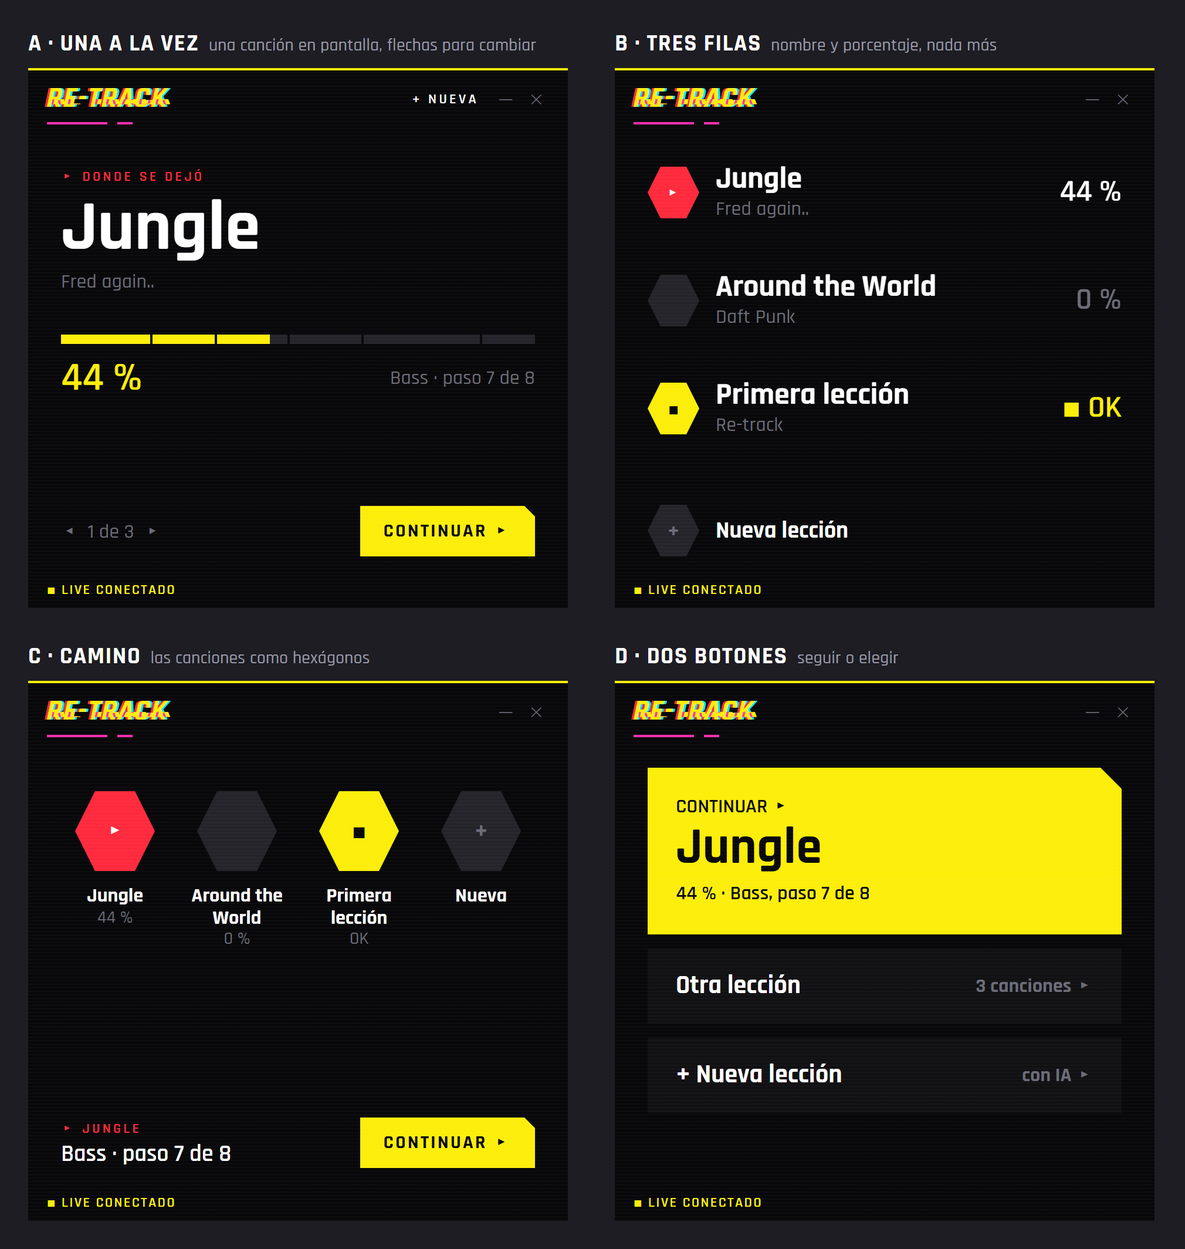
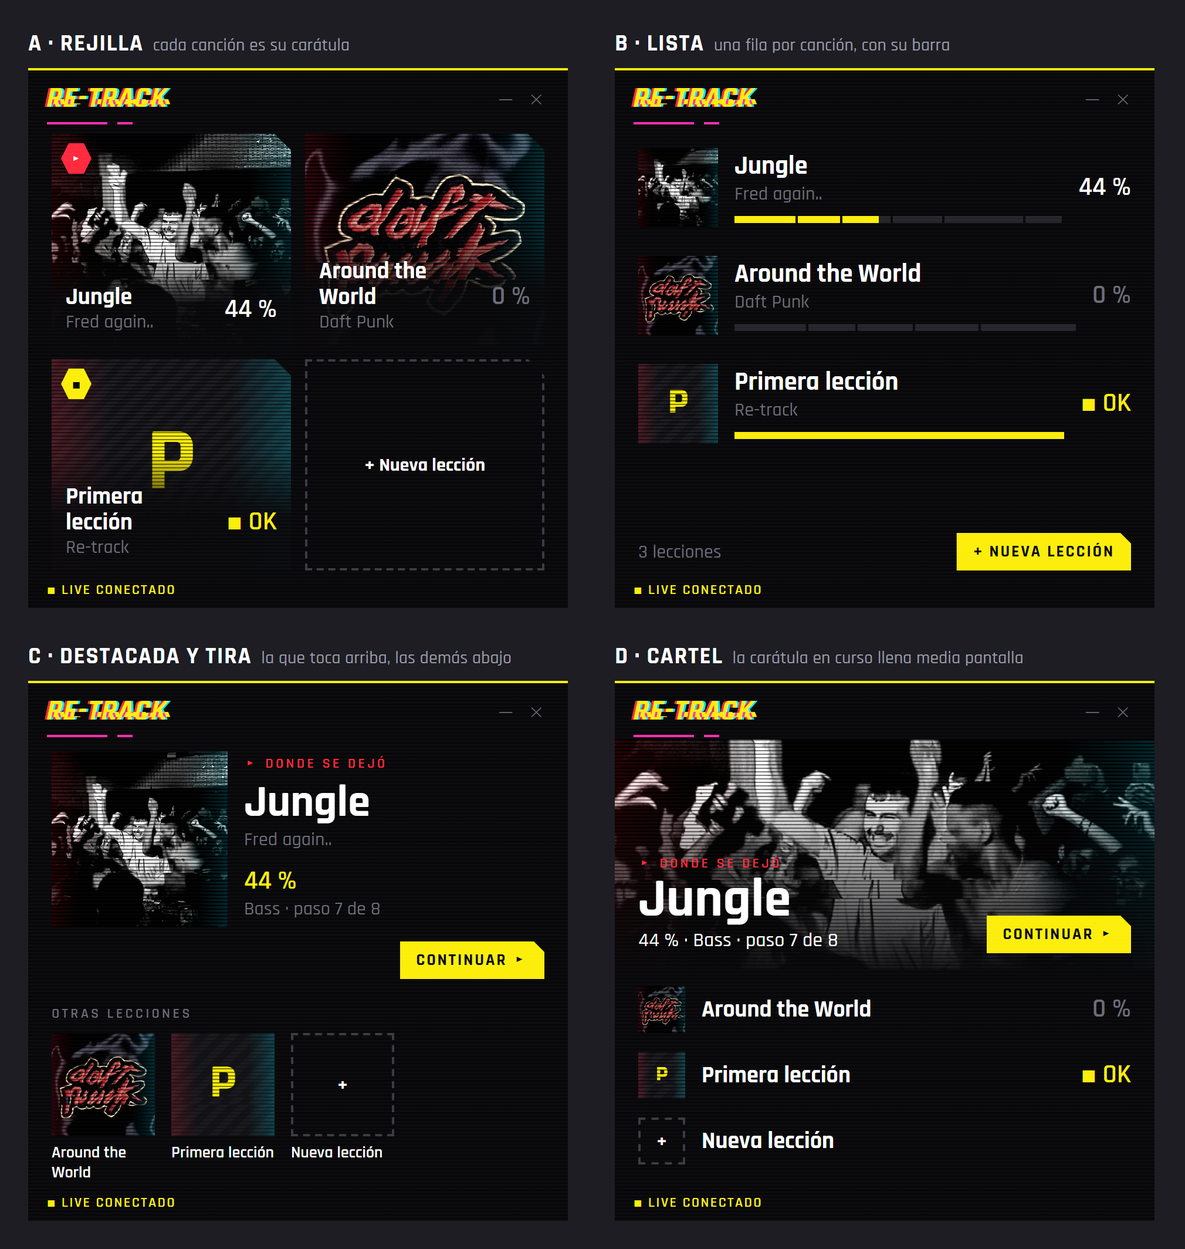
Docs: third round of home and new-lesson proposals, with VHS cover art

diff --git a/docs/design/inicio/propuestas.html b/docs/design/inicio/propuestas.html
@@ -2,83 +2,77 @@
 <html lang="es">
 <head>
 <meta charset="utf-8">
-<title>Re-track · pantalla de inicio · cuatro propuestas (segunda ronda, con aire)</title>
-<!-- Segunda ronda (2026-11-24): la primera se descartó por apretada («no podemos respirar»). Regla de esta ronda: tres cosas
-     por pantalla como mucho, letra grande, separar con espacio y no con líneas. Ventana real: 460×460.
+<title>Re-track · pantalla de inicio · cuatro propuestas (tercera ronda, con carátula)</title>
+<!-- Tercera ronda (2026-11-24). La primera: apretada. La segunda: bonita pero poco práctica. Esta: todas las canciones a la vista,
+     un toque para entrar, y la carátula de cada canción con líneas de VHS (sin carátula, la inicial). Ventana real: 460×460.
      Jungle y Primera lección salen de lecciones/*.json; su progreso y «Around the World» son de muestra. -->
 <link rel="stylesheet" href="../propuestas.css">
 <style>
-  .aire { position: absolute; inset: 58px 28px 36px; display: flex; flex-direction: column; }
+  .aire { position: absolute; inset: 54px 20px 32px; display: flex; flex-direction: column; }
   .fila { display: flex; align-items: center; gap: 14px; }
   .gr { flex: 1; min-width: 0; }
-  .suave { font-size: 17px; color: var(--tenue); }
-  .cta.gr2 { padding: 11px 20px; font-size: 16px; }
-  .bloques { height: 8px; }
-  .abajo { margin-top: auto; margin-bottom: 8px; }
+  .suave { font-size: 16px; color: var(--tenue); }
+  .abajo { margin-top: auto; }
+  .pct { font: 600 22px/1 Rajdhani; }
+  .mas { display: grid; place-items: center; border: 2px dashed #3a3a44; font: 700 16px Rajdhani; color: #fff; text-align: center; box-sizing: border-box; }
 
-  .a-nombre { font: 700 60px/1 Rajdhani; color: #fff; margin: 6px 0 4px; }
-  .a-pct { font: 600 34px/1 Rajdhani; color: var(--amarillo); }
+  .a-rej { flex: 1; display: grid; grid-template-columns: 1fr 1fr; grid-template-rows: 1fr 1fr; gap: 12px; }
+  .losa { position: relative; clip-path: polygon(0 0, calc(100% - 14px) 0, 100% 14px, 100% 100%, 0 100%); }
+  .losa > .car { position: absolute; inset: 0; width: auto; aspect-ratio: auto; }
+  .losa > div { position: absolute; left: 0; right: 0; bottom: 0; padding: 26px 12px 9px; background: linear-gradient(transparent, rgba(8,8,10,.94) 55%); }
+  .losa b { display: block; font: 700 20px/1.1 Rajdhani; color: #fff; }
+  .losa .hex { position: absolute; top: 8px; left: 8px; width: 26px; height: 26px; }
 
   .b-fila { height: 92px; }
-  .b-fila .hex, .mas { width: 44px; height: 44px; font-size: 15px; }
-  .b-fila b { display: block; font: 700 26px/1.1 Rajdhani; color: #fff; }
-  .b-fila .pct { font: 600 26px/1 Rajdhani; }
+  .b-fila b { display: block; font: 700 22px/1.1 Rajdhani; color: #fff; }
+  .b-fila .bloques { margin-top: 8px; }
 
-  .c-hexes { display: flex; justify-content: space-between; align-items: flex-start; margin-top: 34px; }
-  .c-hexes > div { width: 92px; text-align: center; line-height: 1.2; }
-  .c-hexes .hex { width: 68px; height: 68px; margin: 0 auto 12px; font-size: 20px; }
-  .c-hexes b { display: block; font: 700 17px/1.1 Rajdhani; color: #fff; }
+  .c-nombre { font: 700 38px/1 Rajdhani; color: #fff; margin: 6px 0 2px; }
+  .c-tira { display: flex; gap: 14px; margin-top: 8px; }
+  .c-tira > div { width: 88px; font: 600 14px/1.2 Rajdhani; color: #fff; }
+  .c-tira .car, .c-tira .mas { width: 88px; height: 88px; margin-bottom: 6px; }
 
-  .d-grande { margin-top: 14px; padding: 22px 24px 24px; background: var(--amarillo); color: #08080a;
-    clip-path: polygon(0 0, calc(100% - 18px) 0, 100% 18px, 100% 100%, 0 100%); }
-  .d-grande b { display: block; font: 700 44px/1 Rajdhani; margin: 2px 0 6px; }
-  .d-grande span { font: 600 17px Rajdhani; }
-  .d-otra { padding: 18px 24px; background: var(--panel); margin-top: 12px; font: 700 22px Rajdhani; color: #fff; }
+  .d-cartel { position: relative; height: 196px; margin: -6px -20px 6px; }
+  .d-cartel > .car { position: absolute; inset: 0; width: auto; aspect-ratio: auto; }
+  .d-cartel > div { position: absolute; inset: 0; padding: 0 20px 14px; display: flex; align-items: flex-end; gap: 14px; background: linear-gradient(transparent 20%, rgba(8,8,10,.95)); }
+  .d-cartel b { display: block; font: 700 46px/1 Rajdhani; color: #fff; }
+  .d-fila { height: 56px; font: 700 20px Rajdhani; color: #fff; }
 </style>
 </head>
 <body>
+<script src="../propuestas.js"></script>
 <script>
-// [pasos, hechos] por módulo.
-const L = [
-  { t: "Jungle", a: "Fred again..", m: [[10, 10], [7, 7], [8, 6], [8, 0], [13, 0], [6, 0]] },
-  { t: "Around the World", a: "Daft Punk", m: [[9, 0], [6, 0], [7, 0], [8, 0], [12, 0]] },
-  { t: "Primera lección", a: "Re-track", m: [[3, 3]] },
-];
 const total = (l) => l.m.reduce((s, m) => s + m[0], 0), hechos = (l) => l.m.reduce((s, m) => s + m[1], 0);
 const pct = (l) => Math.round((hechos(l) / total(l)) * 100);
 const estado = (l) => (hechos(l) === total(l) ? "on" : hechos(l) ? "sig" : "");
 const SIMBOLO = { on: "■", sig: "▸", "": "" };
 const cifra = (l) => estado(l) === "on" ? `<span class="am">■ OK</span>` : `<span class="num ${hechos(l) ? "bl" : "te"}">${pct(l)} %</span>`;
 const bloques = (l) => `<div class="bloques">${l.m.map((m) => `<i style="flex:${m[0]}"><b style="width:${(m[1] / m[0]) * 100}%"></b></i>`).join("")}</div>`;
-const J = L[0];
-const cab = (ruta) => `<div class="cab"><span class="logo">RE-TRACK</span><span class="ruta">${ruta}</span>
-  <span class="vent">―</span><span class="vent">✕</span></div><div class="glitch"></div>`;
-const pie = `<div class="pie"><span class="am">■ Live conectado</span></div>`;
-const celda = (letra, nombre, idea, ruta, html) =>
-  `<div class="celda"><h2>${letra} · ${nombre}<small>${idea}</small></h2><div class="app">${cab(ruta)}<div class="aire">${html}</div>${pie}</div></div>`;
+const J = L[0], otras = L.slice(1);
+const DONDE = "Bass · paso 7 de 8";
 
-// A · Una a la vez: una sola canción en pantalla; las flechas pasan a la siguiente.
-const A = `<div style="margin-top:22px"><span class="et ro">▸ Donde se dejó</span><div class="a-nombre">${J.t}</div><span class="suave">${J.a}</span></div>
-  <div style="margin-top:34px">${bloques(J)}<div class="fila" style="margin-top:12px"><span class="a-pct num gr">${pct(J)} %</span><span class="suave">Bass · paso 7 de 8</span></div></div>
-  <div class="fila abajo"><span class="suave gr">◂ &nbsp;1 de ${L.length}&nbsp; ▸</span><span class="cta gr2">Continuar ▸</span></div>`;
+// A · Rejilla: cada canción es su carátula; tocarla entra. La última losa crea una lección.
+const A = `<div class="a-rej">${L.map((l) => `<div class="losa">${car(l, 0, "font-size:80px")}${estado(l) ? `<span class="hex ${estado(l)}">${SIMBOLO[estado(l)]}</span>` : ""}
+    <div class="fila"><span class="gr"><b>${l.t}</b><span class="suave">${l.a}</span></span><span class="pct">${cifra(l)}</span></div></div>`).join("")}
+  <div class="losa mas">+ Nueva lección</div></div>`;
 
-// B · Tres filas: solo el nombre y el porcentaje; tocar una fila entra en ella.
-const B = `${L.map((l) => `<div class="fila b-fila"><span class="hex ${estado(l)}">${SIMBOLO[estado(l)]}</span>
-    <span class="gr"><b>${l.t}</b><span class="suave">${l.a}</span></span><span class="pct">${cifra(l)}</span></div>`).join("")}
-  <div class="fila abajo"><span class="hex mas bl" style="font-size:18px">+</span><span style="font:700 20px Rajdhani" class="bl">Nueva lección</span></div>`;
+// B · Lista: una fila por canción, con su carátula, su barra de módulos y su porcentaje.
+const B = `${L.map((l) => `<div class="fila b-fila">${car(l, 68)}<span class="gr"><b>${l.t}</b><span class="suave">${l.a}</span>${bloques(l)}</span><span class="pct">${cifra(l)}</span></div>`).join("")}
+  <div class="fila abajo"><span class="suave gr">${L.length} lecciones</span><span class="cta">+ Nueva lección</span></div>`;
 
-// C · Camino: las canciones son hexágonos, como los módulos dentro de una lección.
-const C = `<div class="c-hexes">${L.map((l) => `<div><span class="hex ${estado(l)}">${SIMBOLO[estado(l)]}</span><b>${l.t}</b><span class="te">${estado(l) === "on" ? "OK" : pct(l) + " %"}</span></div>`).join("")}
-    <div><span class="hex bl">+</span><b>Nueva</b></div></div>
-  <div class="fila abajo"><span class="gr"><span class="et ro">▸ Jungle</span><br><span style="font:600 20px Rajdhani" class="bl">Bass · paso 7 de 8</span></span><span class="cta gr2">Continuar ▸</span></div>`;
+// C · Destacada y tira: arriba la canción donde se dejó, con su botón; abajo las demás.
+const C = `<div class="fila" style="align-items:flex-start;margin-top:4px">${car(J, 150)}<div class="gr"><span class="et ro">▸ Donde se dejó</span><div class="c-nombre">${J.t}</div>
+    <span class="suave">${J.a}</span><div class="pct am num" style="margin:14px 0 2px">${pct(J)} %</div><span class="suave">${DONDE}</span></div></div>
+  <div class="fila" style="margin-top:12px"><span class="gr"></span><span class="cta">Continuar ▸</span></div>
+  <div class="abajo"><span class="et">Otras lecciones</span><div class="c-tira">${otras.map((l) => `<div>${car(l, 88)}${l.t}</div>`).join("")}<div><span class="mas">+</span>Nueva lección</div></div></div>`;
 
-// D · Dos botones: seguir o elegir; nada más.
-const D = `<div class="d-grande"><span>CONTINUAR ▸</span><b>${J.t}</b><span class="num">${pct(J)} % · Bass, paso 7 de 8</span></div>
-  <div class="d-otra fila"><span class="gr">Otra lección</span><span class="suave">${L.length} canciones ▸</span></div>
-  <div class="d-otra fila"><span class="gr">+ Nueva lección</span><span class="suave">con IA ▸</span></div>`;
+// D · Cartel: la carátula de la canción en curso llena media pantalla; debajo, las demás en filas.
+const D = `<div class="d-cartel">${car(J, 0)}<div><span class="gr"><span class="et ro">▸ Donde se dejó</span><b>${J.t}</b><span class="bl num" style="font-size:17px">${pct(J)} % · ${DONDE}</span></span><span class="cta">Continuar ▸</span></div></div>
+  ${otras.map((l) => `<div class="fila d-fila">${car(l, 40)}<span class="gr">${l.t}</span><span class="pct">${cifra(l)}</span></div>`).join("")}
+  <div class="fila d-fila"><span class="mas" style="width:40px;height:40px">+</span><span class="gr">Nueva lección</span></div>`;
 
-document.body.innerHTML = celda("A", "UNA A LA VEZ", "una canción en pantalla, flechas para cambiar", "<b>+ Nueva</b>", A) + celda("B", "TRES FILAS", "nombre y porcentaje, nada más", "", B) +
-  celda("C", "CAMINO", "las canciones como hexágonos", "", C) + celda("D", "DOS BOTONES", "seguir o elegir", "", D);
+document.body.innerHTML = celda("A", "REJILLA", "cada canción es su carátula", A) + celda("B", "LISTA", "una fila por canción, con su barra", B) +
+  celda("C", "DESTACADA Y TIRA", "la que toca arriba, las demás abajo", C) + celda("D", "CARTEL", "la carátula en curso llena media pantalla", D);
 console.assert(hechos(J) === 23 && total(J) === 52 && pct(J) === 44, "Jungle: 23/52");
 </script>
 </body>

diff --git a/docs/design/ia/propuestas.html b/docs/design/ia/propuestas.html
@@ -2,72 +2,73 @@
 <html lang="es">
 <head>
 <meta charset="utf-8">
-<title>Re-track · pantalla de nueva lección (IA) · cuatro propuestas (segunda ronda, con aire)</title>
-<!-- Segunda ronda (2026-11-24): la primera se descartó por apretada. Regla: una sola decisión por pantalla, letra grande,
-     separar con espacio. Parte del esquema de Matthieu del 2026-11-03 (docs/DESIGN.md, «Visión ampliada»).
-     Ventana real: 460×460. Las canciones y los pasos son de muestra. -->
+<title>Re-track · pantalla de nueva lección (IA) · cuatro propuestas (tercera ronda, con carátula)</title>
+<!-- Tercera ronda (2026-11-24). La segunda era bonita pero poco práctica: aquí cada propuesta deja la lección lista en una sola
+     pantalla, y la canción se ve por su carátula con líneas de VHS. Parte del esquema de Matthieu del 2026-11-03
+     (docs/DESIGN.md, «Visión ampliada»). Ventana real: 460×460. Canciones, módulos y pasos son de muestra. -->
 <link rel="stylesheet" href="../propuestas.css">
 <style>
-  .aire { position: absolute; inset: 58px 28px 36px; display: flex; flex-direction: column; }
+  .aire { position: absolute; inset: 54px 20px 32px; display: flex; flex-direction: column; }
   .fila { display: flex; align-items: center; gap: 14px; }
   .gr { flex: 1; min-width: 0; }
-  .suave { font-size: 17px; color: var(--tenue); line-height: 1.3; }
-  .cta.gr2 { padding: 11px 20px; font-size: 16px; }
-  .grande { font: 700 34px/1.1 Rajdhani; color: #fff; }
-  .abajo { margin-top: auto; margin-bottom: 8px; }
+  .suave { font-size: 16px; color: var(--tenue); line-height: 1.25; }
+  .abajo { margin-top: auto; }
+  .nombre { font: 700 38px/1 Rajdhani; color: #fff; margin: 6px 0 2px; }
+  .raya { border: 2px dashed #3a3a44; box-sizing: border-box; padding: 0 14px; height: 52px; font: 700 16px Rajdhani; color: #fff; }
+  .pieza { height: 62px; }
+  .pieza b { display: block; font: 700 19px/1.1 Rajdhani; letter-spacing: .08em; color: #fff; }
+  .chip { display: inline-block; margin: 6px 6px 0 0; padding: 4px 10px; background: var(--hueco); font: 600 14px Rajdhani; color: #fff; }
+  .chip.on { background: var(--amarillo); color: #08080a; }
 
-  .a-zona { flex: 1; margin: 14px 0 22px; border: 2px dashed #3a3a44; display: flex; flex-direction: column; align-items: center; justify-content: center; gap: 10px; text-align: center; }
-  .a-zona .hex { width: 64px; height: 64px; font-size: 26px; margin-bottom: 8px; }
+  .b-tabs { display: flex; gap: 22px; margin-bottom: 8px; font: 700 17px Rajdhani; color: var(--tenue); }
+  .b-tabs .on { color: #fff; padding-bottom: 6px; border-bottom: 2px solid var(--amarillo); }
+  .dos { display: grid; grid-template-columns: 1fr 1fr; gap: 2px; margin-top: 12px; text-align: center; font: 700 14px Rajdhani; letter-spacing: .06em; }
+  .dos span { padding: 8px 0; background: var(--panel); color: var(--tenue); }
+  .dos .on { background: var(--hueco); color: #fff; }
 
-  .b-hexes { display: flex; gap: 22px; margin-top: 30px; }
-  .b-hexes > div { width: 96px; text-align: center; line-height: 1.2; }
-  .b-hexes .hex { width: 68px; height: 68px; margin: 0 auto 10px; font-size: 20px; }
-  .b-hexes b { display: block; font: 700 17px Rajdhani; letter-spacing: .08em; color: #fff; }
-  .via { position: relative; height: 8px; background: var(--hueco); margin: 10px 0 0; }
-  .via i { position: absolute; top: -7px; left: 0; width: 12px; height: 22px; background: var(--amarillo); }
+  .c-can { margin-bottom: 16px; align-items: flex-start; }
+  .c-can b { font: 700 19px/1 Rajdhani; color: #fff; }
 
-  .c-linea { margin-top: 30px; padding-bottom: 12px; border-bottom: 2px solid var(--amarillo); font: 600 24px/1.3 Rajdhani; color: #fff; }
-  .cursor { display: inline-block; width: 10px; height: 22px; background: var(--rojo); vertical-align: -3px; margin-left: 4px; }
-
-  .d-dos { display: grid; grid-template-columns: 1fr 1fr; gap: 14px; margin: 30px 0 14px; flex: 1; }
-  .d-dos > div { padding: 24px 18px; background: var(--panel); clip-path: polygon(0 0, calc(100% - 16px) 0, 100% 16px, 100% 100%, 0 100%); }
-  .d-dos .hex { width: 56px; height: 56px; font-size: 20px; margin-bottom: 22px; }
-  .d-dos b { display: block; font: 700 24px/1.1 Rajdhani; color: #fff; margin-bottom: 8px; }
+  .d-cols { flex: 1; display: grid; grid-template-columns: 170px 1fr; gap: 20px; }
+  .d-cols .car { margin: 8px 0 4px; }
+  .d-paso { height: 50px; padding: 0 12px; margin-top: 8px; background: var(--panel); border-left: 2px solid var(--amarillo); }
+  .d-paso b { font: 700 16px Rajdhani; letter-spacing: .08em; color: #fff; }
 </style>
 </head>
 <body>
+<script src="../propuestas.js"></script>
 <script>
-const cab = `<div class="cab"><span class="logo">RE-TRACK</span><span class="ruta">← Lecciones</span>
-  <span class="vent">―</span><span class="vent">✕</span></div><div class="glitch"></div>`;
-const pie = `<div class="pie"><span class="am">■ Live conectado</span></div>`;
-const celda = (letra, nombre, idea, html) =>
-  `<div class="celda"><h2>${letra} · ${nombre}<small>${idea}</small></h2><div class="app">${cab}<div class="aire">${html}</div>${pie}</div></div>`;
+const [J, W] = L;
+const PIEZAS = [["BASS", J, 8], ["DRUMS", W, 6]];
+const pasos = PIEZAS.reduce((s, p) => s + p[2], 0);
+const MODULOS = [[J, ["Drums", "Bass", "Pad", "Lead"], "Bass"], [W, ["Drums", "Bass", "Synth"], "Drums"]];
+const generar = `<div class="fila abajo"><span class="suave gr num">■ ${PIEZAS.length} piezas · ${pasos} pasos</span><span class="cta">Generar ▸</span></div>`;
+const ruta = "← Lecciones";
 
-// A · Soltar: toda la pantalla es el sitio donde cae la canción.
-const A = `<div class="a-zona"><span class="hex bl">+</span><span class="grande">Suelta una canción</span><span class="suave">mp3 o wav</span></div>
-  <div class="fila" style="margin-bottom:8px"><span class="suave gr">o combina piezas de las lecciones</span><span class="et bl">A la carta ▸</span></div>`;
+// A · Soltar y listo: se suelta el fichero, la app reconoce la canción y enseña su carátula; un botón genera.
+const A = `<div class="fila" style="align-items:flex-start;margin-top:4px">${car(J, 150)}<div class="gr"><span class="et am">■ Canción reconocida</span><div class="nombre">${J.t}</div>
+    <span class="suave">${J.a}</span><div class="suave" style="margin-top:14px">jungle.mp3<br>Cambiar canción ▸</div></div></div>
+  <span class="suave" style="margin-top:18px">Saldrá la lección entera, módulo a módulo.</span>
+  <div class="fila abajo"><span class="et bl gr">A la carta ▸</span><span class="cta">Generar lección ▸</span></div>`;
 
-// B · Piezas: tres huecos grandes y el deslizador.
-const PIEZAS = [["BASS", "Jungle", 8], ["DRUMS", "Around the World", 6], ["PAD", null]];
-const pasos = PIEZAS.reduce((s, p) => s + (p[2] ?? 0), 0);
-const B = `<span class="grande" style="margin-top:8px">Elige las piezas</span>
-  <div class="b-hexes">${PIEZAS.map(([papel, de]) => `<div><span class="hex ${de ? "on" : "bl"}">${de ? "■" : "+"}</span><b>${papel}</b><span class="te">${de ?? "vacío"}</span></div>`).join("")}</div>
-  <div style="margin-top:30px"><div class="fila"><span class="et bl gr">■ Una detrás de otra</span><span class="et">Mezcladas</span></div><div class="via"><i></i></div></div>
-  <div class="fila abajo"><span class="suave gr num">${pasos} pasos</span><span class="cta gr2">Generar ▸</span></div>`;
+// B · Dos pestañas: canción entera o a la carta; aquí, a la carta: una fila por pieza.
+const B = `<div class="b-tabs"><span>De una canción</span><span class="on">A la carta</span></div>
+  ${PIEZAS.map(([papel, l, n]) => `<div class="fila pieza">${car(l, 46)}<span class="gr"><b>${papel}</b><span class="suave">${l.t} · ${n} pasos</span></span><span class="te">✕</span></div>`).join("")}
+  <div class="fila raya" style="margin-top:6px">+ Añadir pieza</div>
+  <div class="dos"><span class="on">■ Una detrás de otra</span><span>Mezcladas</span></div>${generar}`;
 
-// C · Pedirlo: una pregunta y una línea para escribir.
-const C = `<span class="grande" style="margin-top:8px">¿Qué se quiere aprender?</span>
-  <div class="c-linea">El bass de Jungle con los drums de Around the World<span class="cursor"></span></div>
-  <span class="suave" style="margin-top:16px">También vale soltar aquí una canción.</span>
-  <div class="fila abajo"><span class="gr"></span><span class="cta gr2">Generar ▸</span></div>`;
+// C · Todo a la vista: cada canción con sus módulos; se tocan los que se quieren.
+const C = `${MODULOS.map(([l, ms, on]) => `<div class="fila c-can">${car(l, 68)}<div class="gr"><b>${l.t}</b><div>${ms.map((m) => `<span class="chip ${m === on ? "on" : ""}">${m === on ? "■ " : ""}${m}</span>`).join("")}</div></div></div>`).join("")}
+  <div class="fila raya">+ Soltar una canción nueva<span class="gr"></span><span class="suave">mp3 o wav</span></div>${generar}`;
 
-// D · Dos caminos: primero se elige cuál; cada uno tiene luego su pantalla.
-const D = `<span class="grande" style="margin-top:8px">Nueva lección</span>
-  <div class="d-dos"><div><span class="hex sig">▸</span><b>De una canción</b><span class="suave">Se sube y sale su lección entera.</span></div>
-    <div><span class="hex on">■</span><b>A la carta</b><span class="suave">Piezas de varias lecciones.</span></div></div>`;
+// D · Receta: a la izquierda de dónde se coge; a la derecha la lección que se va montando, en orden.
+const D = `<div class="d-cols"><div><span class="et">Canciones</span>${[J, W].map((l, i) => `<div class="fila">${car(l, 56, i ? "" : "outline:2px solid var(--amarillo);outline-offset:-2px")}<b class="${i ? "te" : "bl"}" style="font:700 16px/1.1 Rajdhani">${l.t}</b></div>`).join("")}
+      <div>${MODULOS[0][1].map((m) => `<span class="chip ${m === "Bass" ? "on" : ""}">${m === "Bass" ? "■ " : "+ "}${m}</span>`).join("")}</div></div>
+    <div><span class="et">La lección</span>${PIEZAS.map(([papel, l, n], i) => `<div class="fila d-paso"><span class="am num">${i + 1}</span><span class="gr"><b>${papel}</b><br><span class="suave" style="font-size:14px">${l.t}</span></span><span class="te num">${n}</span></div>`).join("")}
+      <div class="fila raya" style="margin-top:8px;height:50px">+ Pieza</div></div></div>${generar}`;
 
-document.body.innerHTML = celda("A", "SOLTAR", "la pantalla entera recibe la canción", A) + celda("B", "PIEZAS", "tres huecos y un deslizador", B) +
-  celda("C", "PEDIRLO", "una pregunta, una línea", C) + celda("D", "DOS CAMINOS", "primero se elige cuál", D);
+document.body.innerHTML = celda("A", "SOLTAR Y LISTO", "se suelta, se reconoce, se genera", A, ruta) + celda("B", "DOS PESTAÑAS", "canción entera o a la carta", B, ruta) +
+  celda("C", "TODO A LA VISTA", "las canciones con sus módulos", C, ruta) + celda("D", "RECETA", "de dónde se coge y qué se monta", D, ruta);
 console.assert(pasos === 14, "8 + 6 pasos");
 </script>
 </body>

diff --git a/docs/design/propuestas.js b/docs/design/propuestas.js
@@ -1,0 +1,13 @@
+// Datos de muestra comunes a las hojas. [pasos, hechos] por módulo; c = carátula encontrada (aquí, la del buscador de iTunes).
+const ART = "https://is1-ssl.mzstatic.com/image/thumb/";
+const L = [
+  { t: "Jungle", a: "Fred again..", m: [[10, 10], [7, 7], [8, 6], [8, 0], [13, 0], [6, 0]], c: ART + "Music211/v4/54/b0/c7/54b0c752-7959-63f9-5185-80ebc2862325/5054197195013.jpg/600x600bb.jpg" },
+  { t: "Around the World", a: "Daft Punk", m: [[9, 0], [6, 0], [7, 0], [8, 0], [12, 0]], c: ART + "Features115/v4/34/8d/c7/348dc71c-d75e-9baf-671a-994e9e74b018/dj.pimdxdmf.jpg/600x600bb.jpg" },
+  { t: "Primera lección", a: "Re-track", m: [[3, 3]] }, // sin carátula: sale la inicial
+];
+const car = (l, px, extra = "") => `<span class="car ${l.c ? "" : "sin"}" style="${px ? `width:${px}px;font-size:${px / 2}px;` : ""}${l.c ? `background-image:url(${l.c});` : ""}${extra}">${l.c ? "" : l.t[0]}</span>`;
+const cab = (ruta = "") => `<div class="cab"><span class="logo">RE-TRACK</span><span class="ruta">${ruta}</span>
+  <span class="vent">―</span><span class="vent">✕</span></div><div class="glitch"></div>`;
+const pie = `<div class="pie"><span class="am">■ Live conectado</span></div>`;
+const celda = (letra, nombre, idea, html, ruta) =>
+  `<div class="celda"><h2>${letra} · ${nombre}<small>${idea}</small></h2><div class="app">${cab(ruta)}<div class="aire">${html}</div>${pie}</div></div>`;

diff --git a/docs/design/propuestas.css b/docs/design/propuestas.css
@@ -52,3 +52,11 @@ body { margin: 0; padding: 24px; background: #1d1d23; font: 500 15px Rajdhani, s
 .bloques b { position: absolute; left: 0; top: 0; bottom: 0; background: var(--amarillo); }
 .bloques u { position: absolute; top: 0; bottom: 0; width: 3px; background: var(--rojo); box-shadow: 0 0 6px var(--rojo); }
 h1 { margin: 0; font: 700 17px/1.1 Rajdhani; color: #fff; letter-spacing: .02em; }
+/* Carátula «digitalizada»: la foto con líneas de VHS, una franja corrida y un filo rojo/cian. Sin foto (.sin): la inicial. */
+.car { position: relative; flex: none; width: 64px; aspect-ratio: 1; overflow: hidden; display: grid; place-items: center;
+  background: var(--hueco) center/cover; filter: saturate(.7) contrast(1.15); font: 700 30px/1 Rajdhani; color: var(--amarillo); }
+.car.sin { background: repeating-linear-gradient(135deg, #1a1a20 0 6px, #141418 6px 12px); filter: none; }
+.car::before { content: ""; position: absolute; inset: 0; background: inherit; clip-path: inset(61% 0 31% 0); transform: translateX(7px); }
+.car::after { content: ""; position: absolute; inset: 0; background:
+  repeating-linear-gradient(0deg, rgba(0,0,0,.5) 0 1px, transparent 1px 3px),
+  linear-gradient(90deg, rgba(255,42,61,.22), transparent 25%, transparent 75%, rgba(0,229,255,.22)); }
